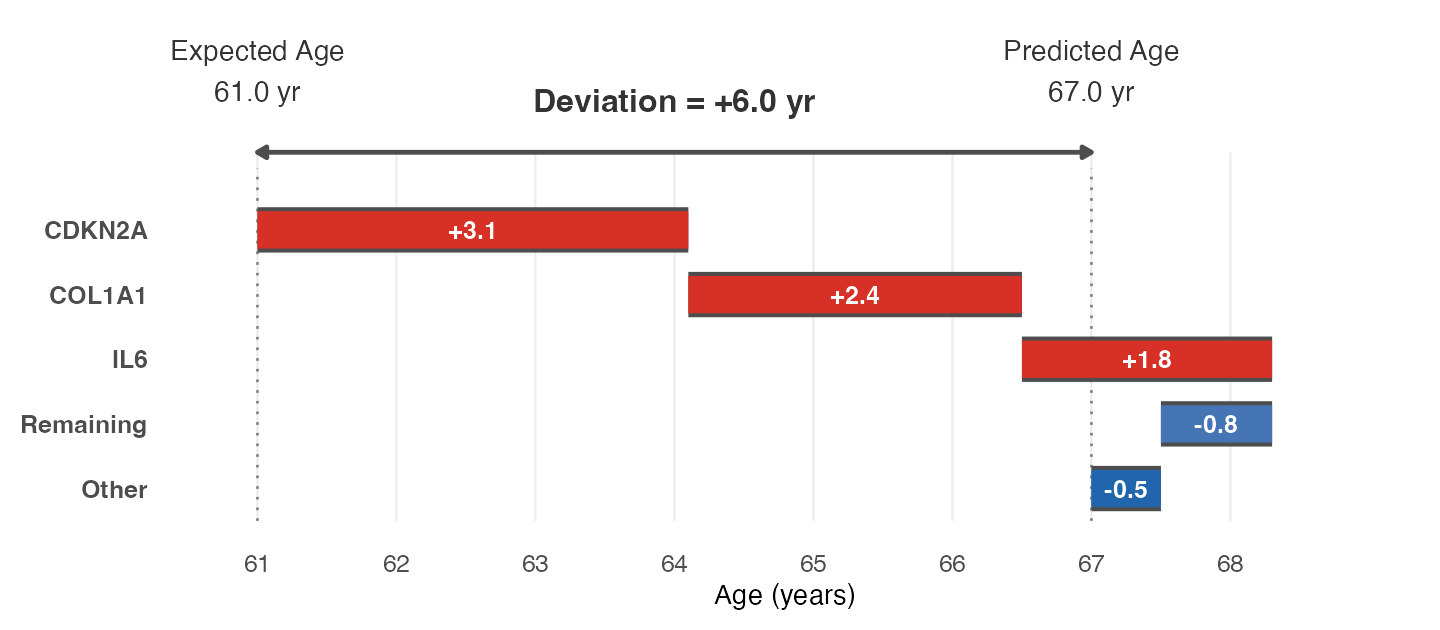
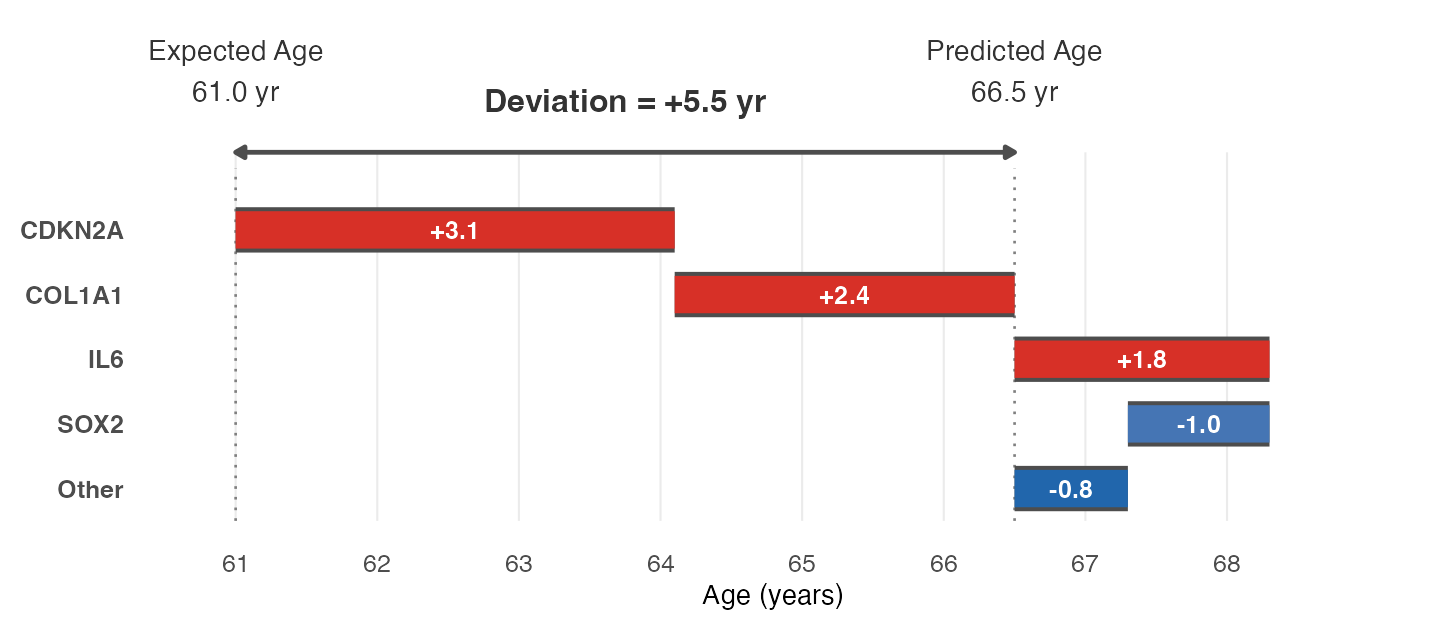
Sync worked-example README numbers with updated waterfall figure

diff --git a/README.md b/README.md
@@ -17,21 +17,21 @@ For each sample, ClockSHAP returns a per-feature decomposition of how far that s
 ```
 Sample ID:            TCGA-XX-1234
 Chronological age:    58 years
-Predicted clock age:  67 years     <- y_hat
+Predicted clock age:  66.5 years   <- y_hat
 Expected for age 58:  61 years     <- y_exp(age) from reference profile
-Deviation:            +6 years     <- predicted - expected
+Deviation:            +5.5 years   <- predicted - expected
 
 Top feature contributions (phi, sum exactly to deviation):
   CDKN2A      +3.1
   COL1A1      +2.4
   IL6         +1.8
-  SOX2        -0.5
-  ... (remaining features)  -0.8
+  SOX2        -1.0
+  Other (remaining features) -0.8
   ------------------------
-  Total       +6.0
+  Total       +5.5
 ```
 
-The interpretation is direct: this sample is six clock-years older than expected for a 58-year-old in the reference cohort, and CDKN2A, COL1A1, and IL6 are the dominant drivers.
+The interpretation is direct: this sample is 5.5 clock-years older than expected for a 58-year-old in the reference cohort, and CDKN2A, COL1A1, and IL6 are the dominant drivers.
 
 This output drops into downstream analyses — cohort-level comparisons of which features drive deviation, deep dives on individual samples, or hypothesis generation about which biological programs are differentially engaged.
 
